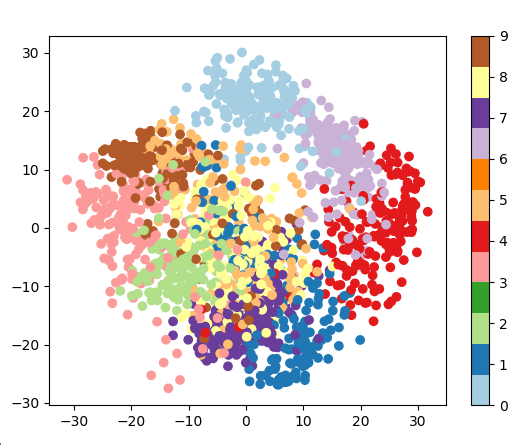
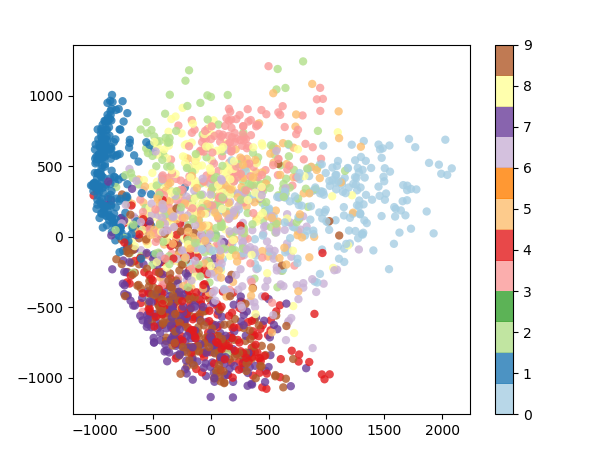
update

diff --git a/PCA_Linear_dimensionality_reduction.py b/PCA_Linear_dimensionality_reduction.py
@@ -1,0 +1,34 @@
+import numpy as np
+# import keras
+# import seaborn as sns
+# import pandas as pd
+# import matplotlib.pyplot as plt
+
+from keras.datasets import mnist
+from sklearn import neighbors
+
+from sklearn import datasets, metrics
+from sklearn.decomposition import PCA
+
+image_vector_size = 28*28
+(x_train, y_train), (x_test, y_test) = mnist.load_data()
+x_train = x_train.reshape(x_train.shape[0], image_vector_size)
+x_test = x_test.reshape(x_test.shape[0], image_vector_size)
+
+print("please wait ...")
+# pca = PCA(n_components = 500).fit(x_train)  # Accuracy will be less than 0.94,
+# pca = PCA(n_components = 200).fit(x_train) # Accuracy will be 0.94
+
+pca = PCA(n_components = 60).fit(x_train) # Accuracy will be 0.96
+
+x_train = pca.transform(x_train)
+x_test = pca.transform(x_test)
+
+clf = neighbors.KNeighborsClassifier(n_neighbors=2)
+clf.fit(x_train, y_train)
+predicted = clf.predict(x_test[:2000])
+report =metrics.classification_report(y_test[:2000], predicted[:2000])
+report_dict =  metrics.classification_report(y_test[:2000], predicted[:2000], output_dict = True)
+print("Classification report for classifier %s:\n%s\n" % (clf, report ))
+
+
